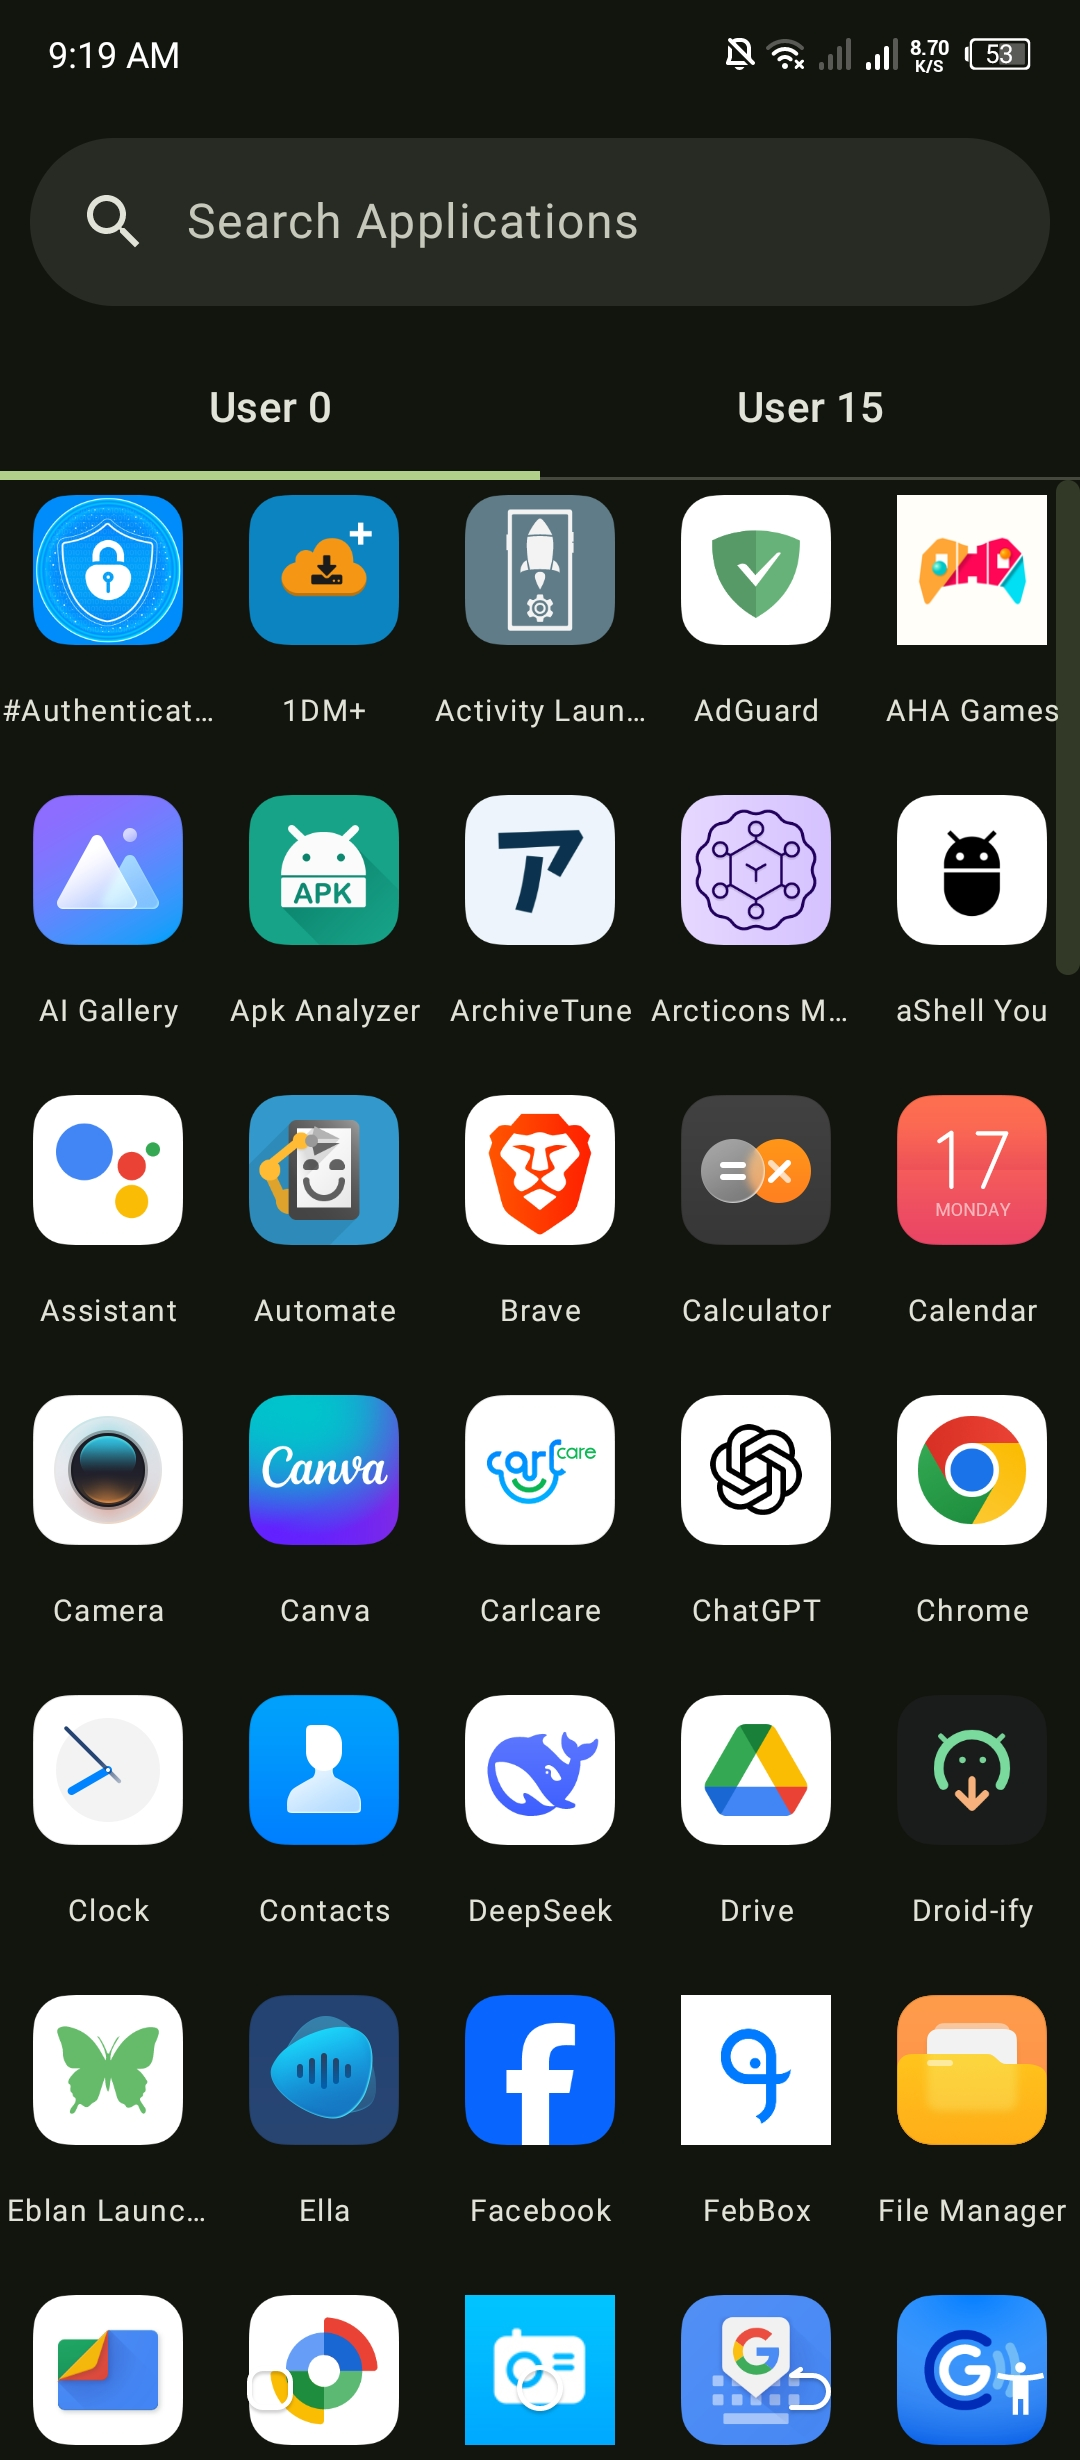
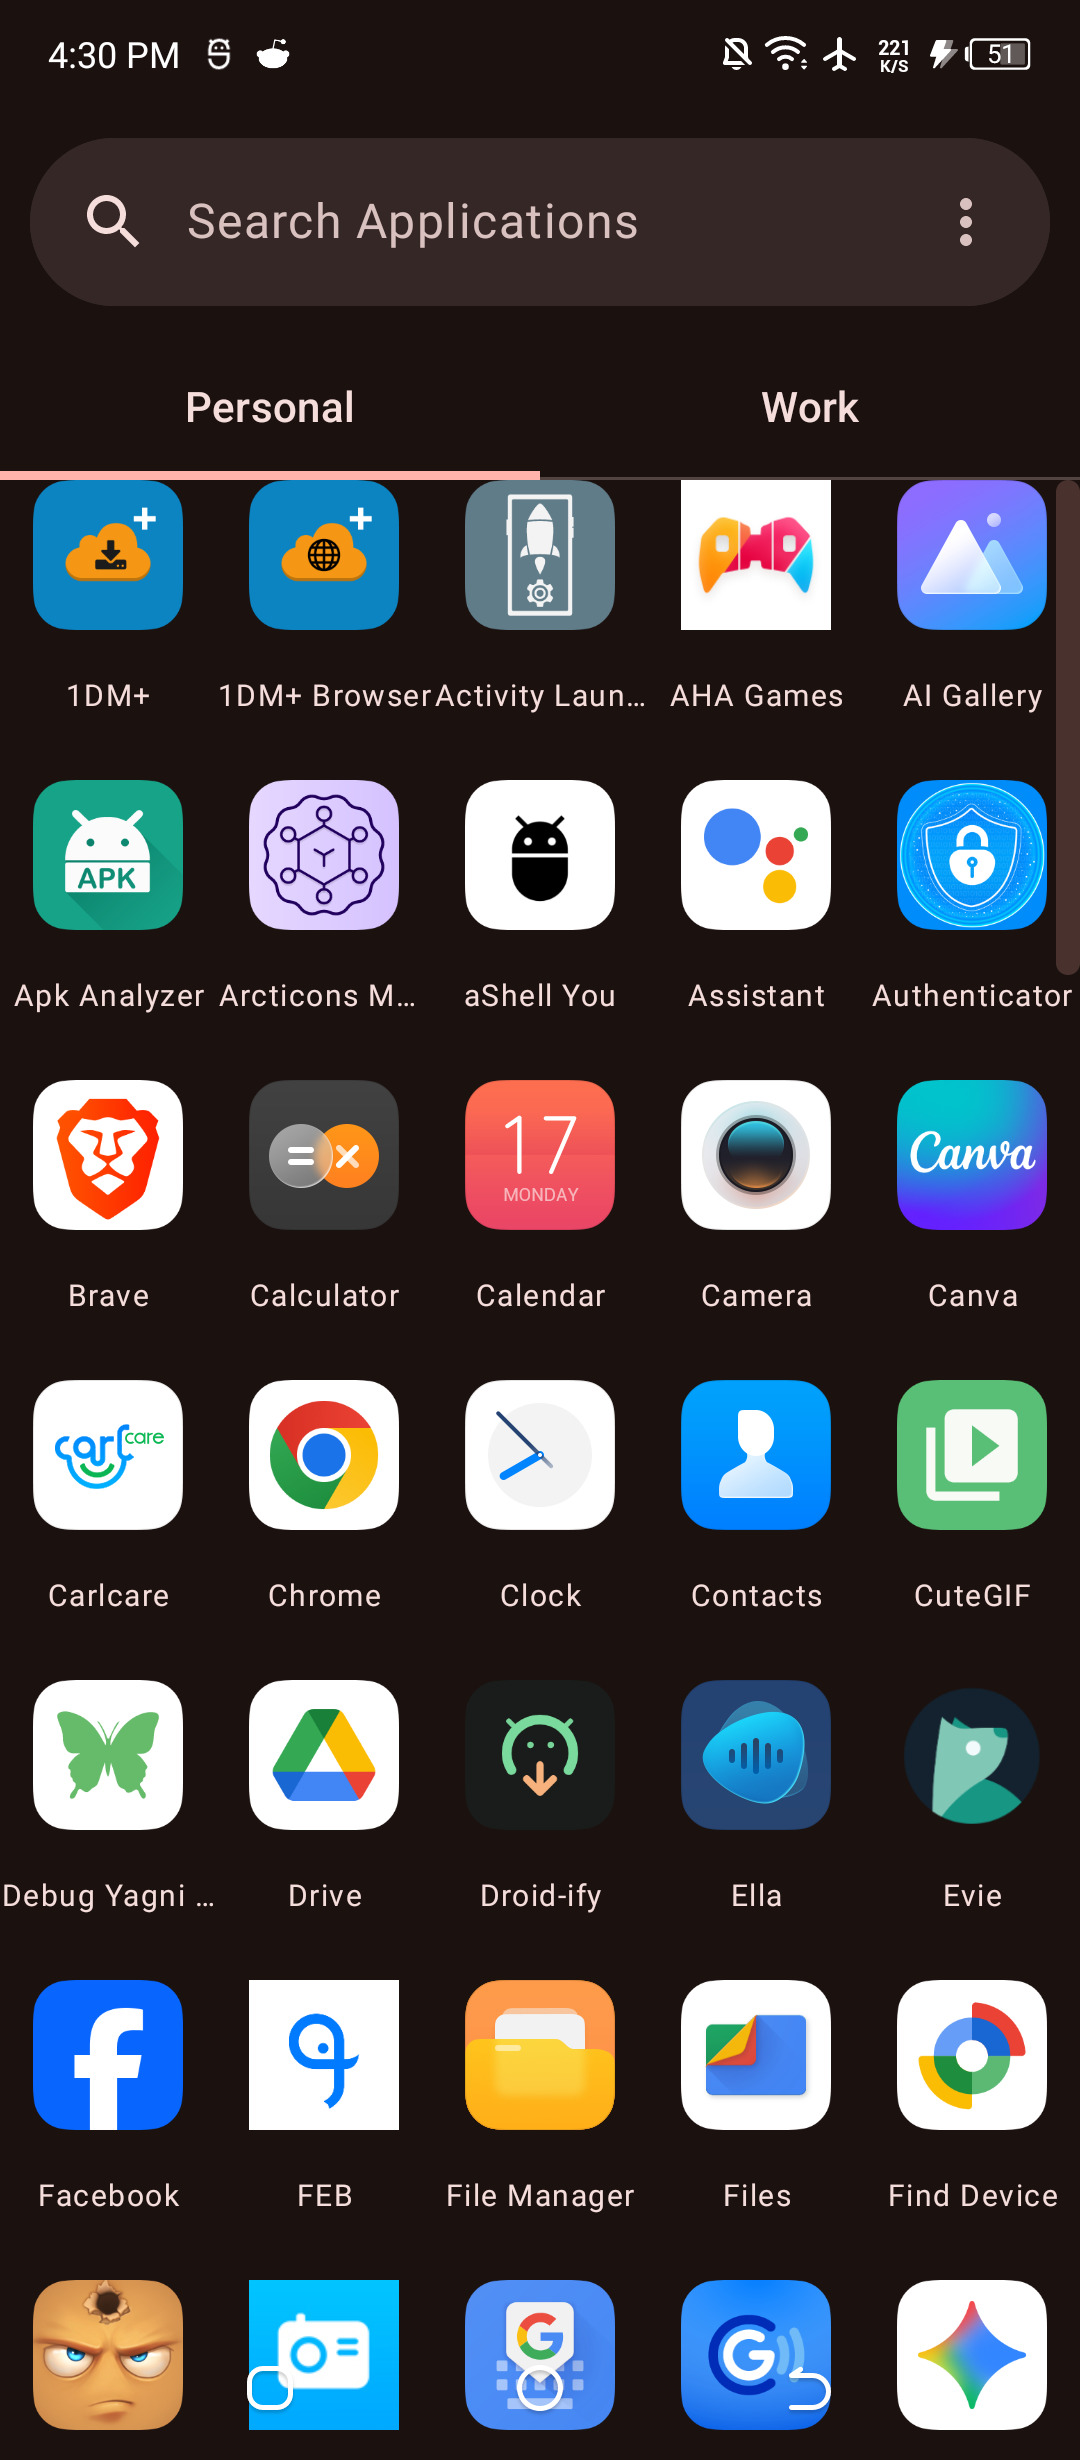
Update screenshots and project metadata
This commit updates the existing application screenshots and adds two new ones to the Fastlane metadata. It also removes a redundant XML header from an IDE configuration file.

### Key Changes:

*   **Screenshots**:
    *   Updated existing phone screenshots (`1.jpg` through `5.jpg`) in the Android metadata directory.
    *   Added two new screenshots: `6.jpg` and `7.jpg`.
    *   Updated `README.md` to include and display the two new screenshots.
*   **Metadata**: Removed the redundant `<?xml version="1.0" encoding="UTF-8"?>` declaration from `.idea/misc.xml`.

diff --git a/README.md b/README.md
@@ -36,6 +36,8 @@ Most Android launchers are just AOSP Launcher3 forks. I wanted to build from scr
 [<img src="fastlane/metadata/android/en-US/images/phoneScreenshots/3.jpg" width=19% alt="3">](fastlane/metadata/android/en-US/images/phoneScreenshots/3.jpg)
 [<img src="fastlane/metadata/android/en-US/images/phoneScreenshots/4.jpg" width=19% alt="4">](fastlane/metadata/android/en-US/images/phoneScreenshots/4.jpg)
 [<img src="fastlane/metadata/android/en-US/images/phoneScreenshots/5.jpg" width=19% alt="5">](fastlane/metadata/android/en-US/images/phoneScreenshots/5.jpg)
+[<img src="fastlane/metadata/android/en-US/images/phoneScreenshots/6.jpg" width=19% alt="6">](fastlane/metadata/android/en-US/images/phoneScreenshots/6.jpg)
+[<img src="fastlane/metadata/android/en-US/images/phoneScreenshots/7.jpg" width=19% alt="7">](fastlane/metadata/android/en-US/images/phoneScreenshots/7.jpg)
 
 </div>
 
